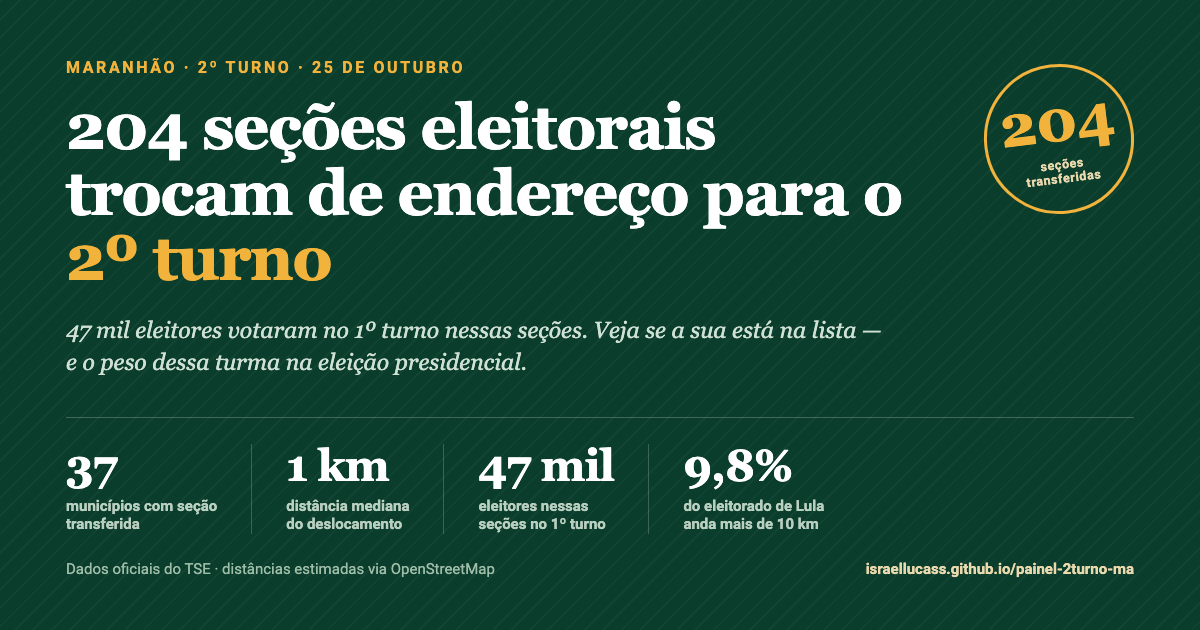
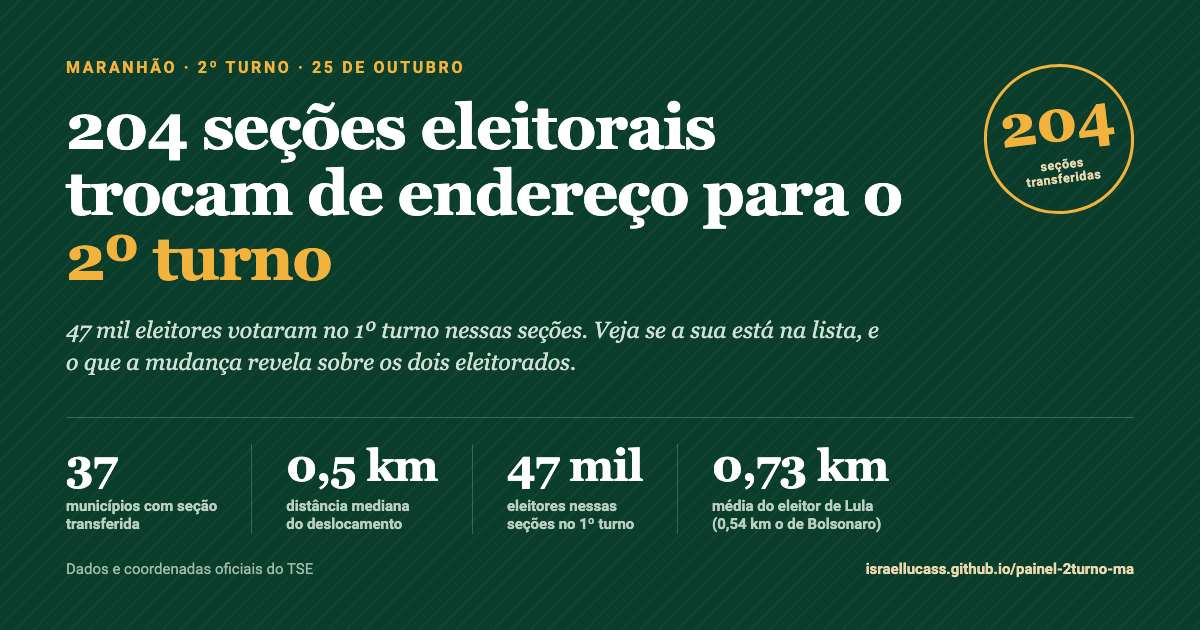
Atualiza painel (18/10/2026 03:33)

diff --git a/README.md b/README.md
@@ -23,13 +23,13 @@ Todos os números vêm de arquivos públicos do **TSE**; as distâncias, do **Op
 | Seções alteradas p/ o 2º turno (MA), 204 seções | `secoes_eleitorais_alteradas_2t-pais_2026_ma.csv` | [TSE — locais de votação](https://www.tse.jus.br/servicos-eleitorais/local-de-votacao-zonas-eleitorais) · [por que o TSE mudou](https://www.tse.jus.br/comunicacao/noticias/2026/Outubro/entenda-por-que-a-justica-eleitoral-trocou-o-endereco-de-algumas-secoes-para-o-2o-turno) |
 | Votação por seção — 1º turno (04/10/2026) | `votacao_secao_2026_BR.csv` · `votacao_secao_2026_MA.csv` | [Dados Abertos TSE — Resultados 2026](https://dadosabertos.tse.jus.br/dataset/resultados-2026) |
 | Eleitorado e locais de votação — 2026 | `eleitorado_local_votacao_2026.zip` | [Dados Abertos TSE — Eleitorado 2026](https://dadosabertos.tse.jus.br/dataset/eleitorado-2026) |
-| Distâncias (linha reta) | — | [OpenStreetMap](https://www.openstreetmap.org/copyright) (ODbL) via Nominatim + Overpass |
+| Coordenadas dos locais (distâncias) | `eleitorado_local_votacao_2026.zip` (endereço novo) + arquivo de 2024 (endereço anterior) | [Dados Abertos TSE — Eleitorado 2026](https://dadosabertos.tse.jus.br/dataset/eleitorado-2026) |
 
 ## Método (resumo)
 
 - Percentuais sobre **votos válidos** (brancos e nulos excluídos).
 - **Peso**: fatia do voto do candidato no Maranhão que saiu dessas 204 seções.
-- **Distância**: estimativa em linha reta entre o prédio antigo e o novo, arredondada (0 m = mesmo prédio). Entram nas médias as **125 de 204** seções com local identificado no mapa (≈61% dos votos válidos).
+- **Distância**: linha reta (haversine) entre as **coordenadas oficiais do TSE** do local antigo e do novo, validadas pela caixa geográfica do MA (0 m = mesmo prédio). Entram nas médias as **196 de 204** seções com as duas pontas identificadas (≈97% dos votos válidos). As 8 restantes aparecem como indisponível.
 - Em 3 municípios (Anapurus, Paulino Neves e São José dos Basílios) o total de votos do 1º turno supera o eleitorado listado para o 2º turno; nesses casos mostramos só o total de votos, sem percentual.
 
 Página independente, sem vínculo com o TSE. Em caso de divergência, prevalece a informação oficial do TRE-MA/TSE.
